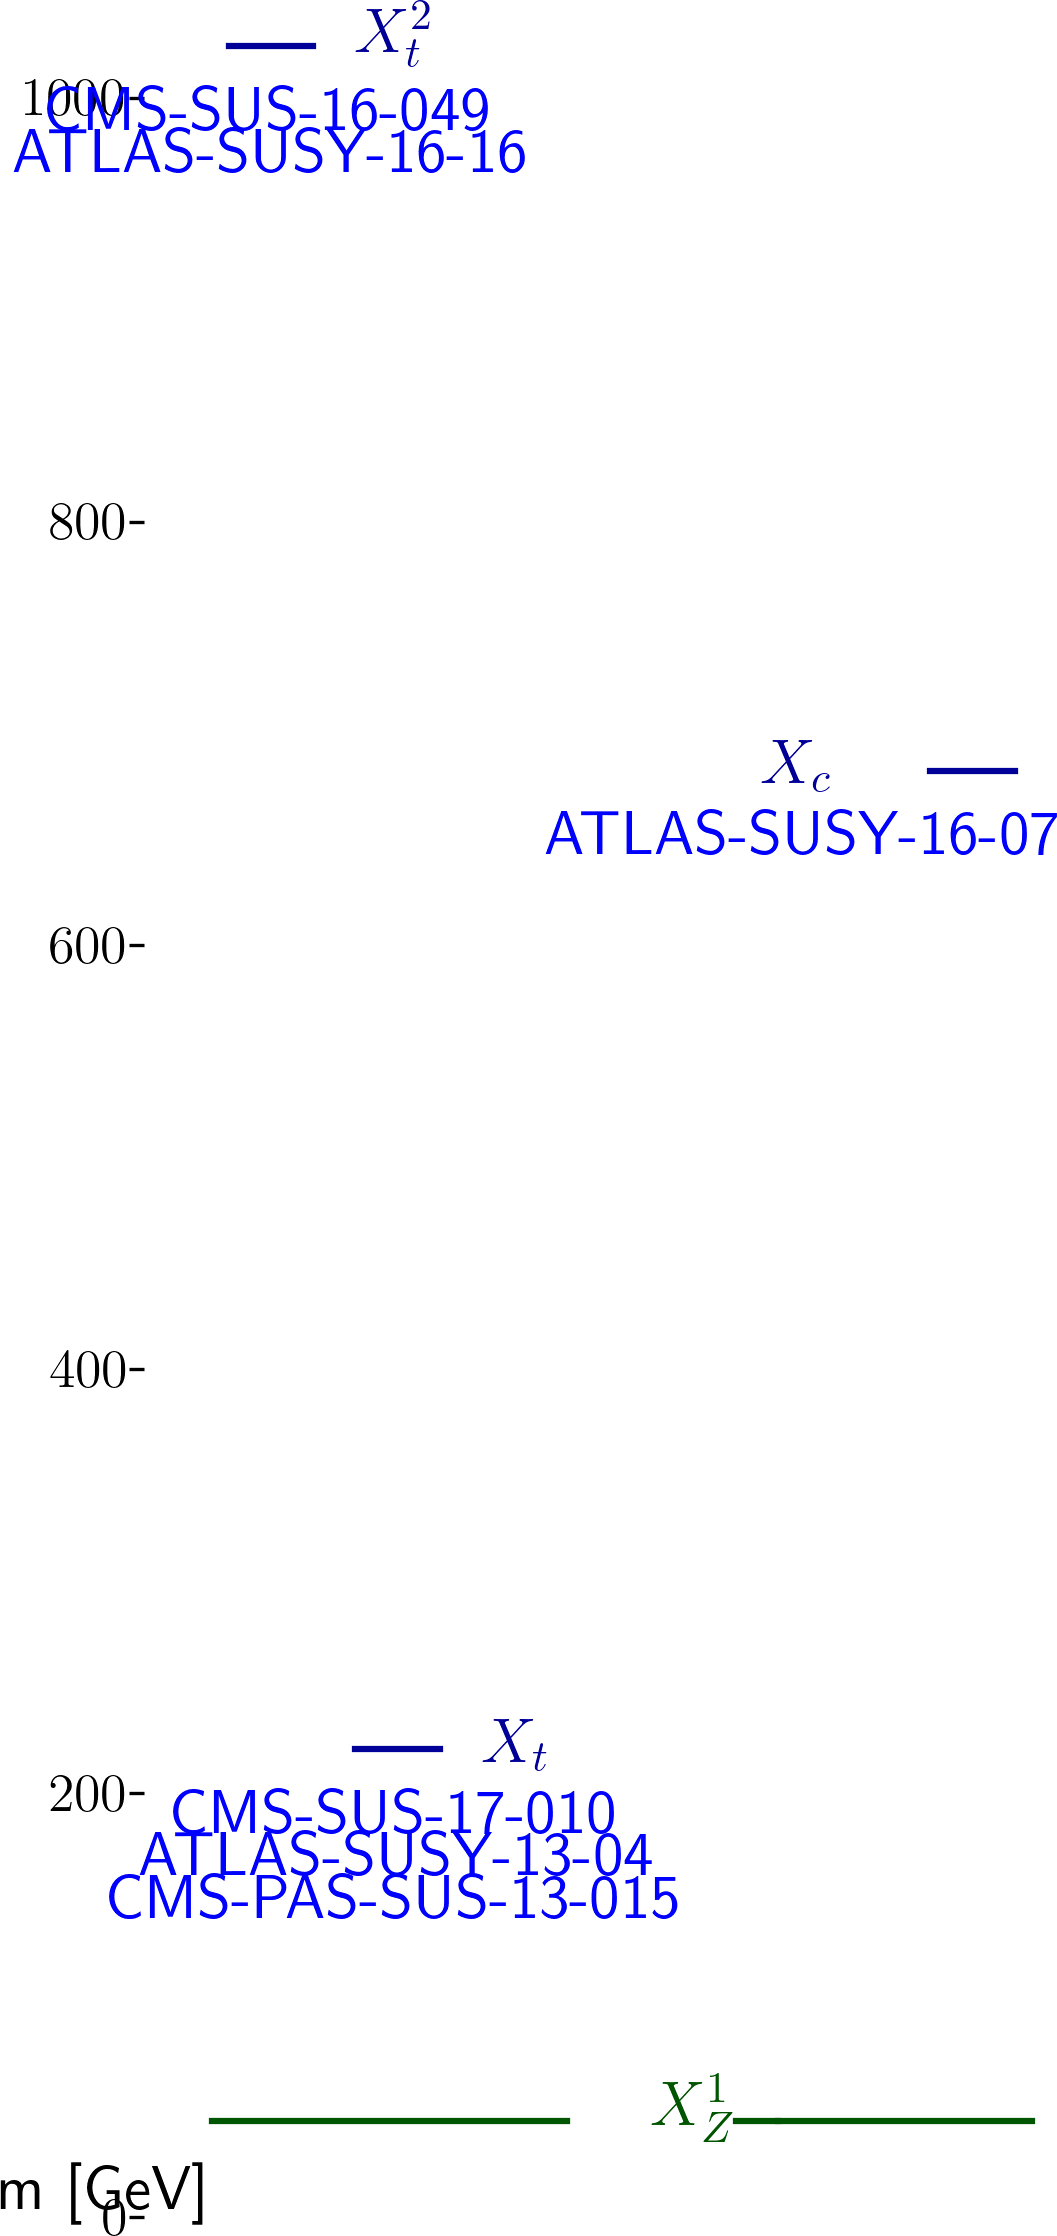
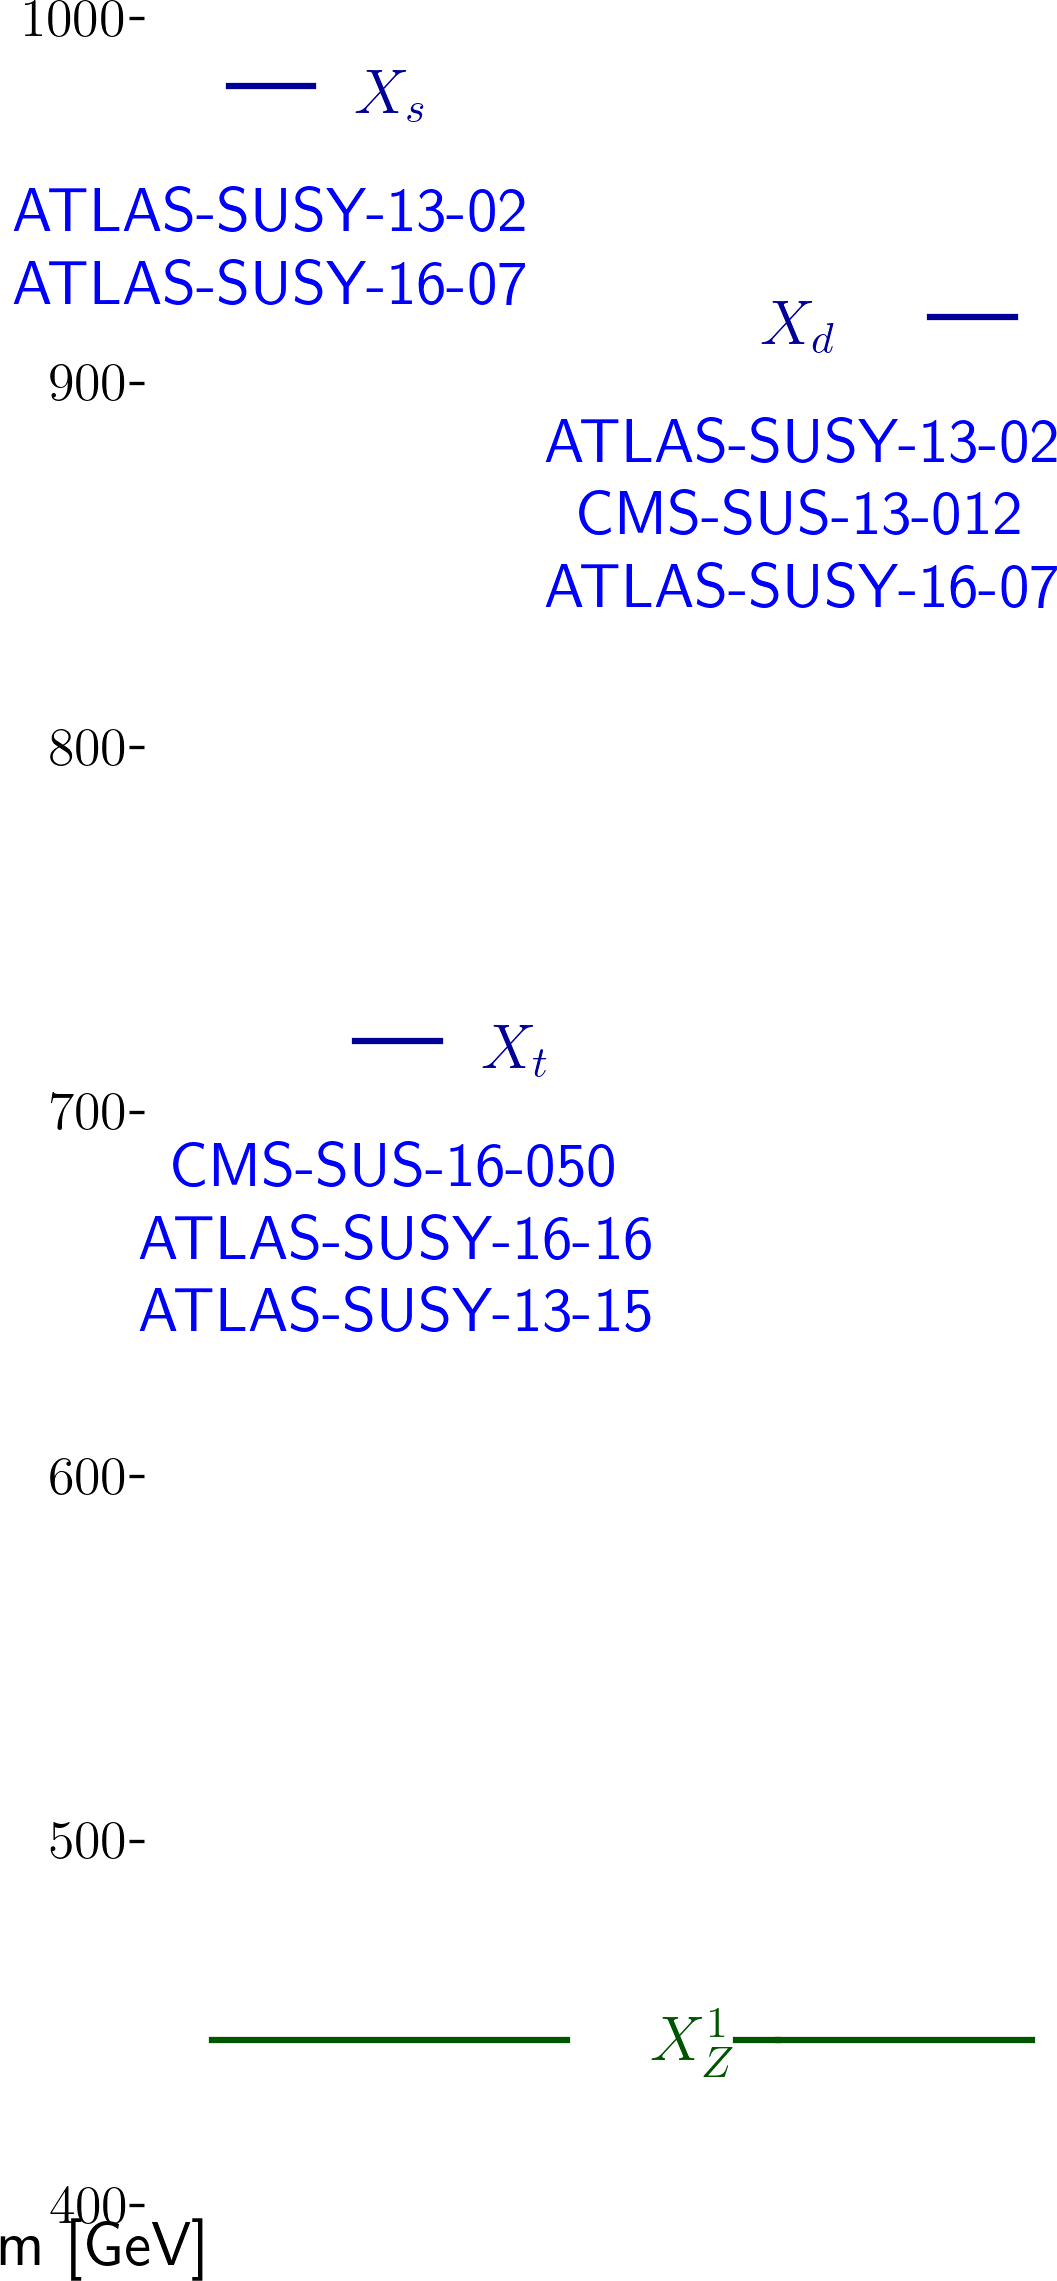
automated update by plotHiscore.py

diff --git a/protomodels/latest/index.html b/protomodels/latest/index.html
@@ -1,31 +1,31 @@
 <html>
 <body>
 <center>
-<table><td><h1>Current best protomodel: K=10.47</h1><td><img height=60px src=https://smodels.github.io/pics/banner.png></table>
+<table><td><h1>Current best protomodel: K=6.67</h1><td><img height=60px src=https://smodels.github.io/pics/banner.png></table>
 </center>
-<b><a href=./hiscore.slha>ProtoModel</a> <a href=./pmodel.py>(dict)</a> produced with <a href=https://smodels.github.io/docs/Validation124>database v1.2.4</a>, combination strategy <a href=./matrix_aggressive.png>aggressive</a> in walker 14 step 282.</b> K plots for: <a href=./M1000022.png?8455780>X<sub>Z</sub><sup>1</sup></a>, <a href=./M2000006.png?8455780>X<sub>t</sub><sup>2</sup></a>, <a href=./M1000004.png?8455780>X<sub>c</sub></a>, <a href=./M1000006.png?8455780>X<sub>t</sub></a>. HPD plots for: <a href=./llhd2000006.png?8455780>X<sub>t</sub><sup>2</sup></a>, <a href=./llhd1000004.png?8455780>X<sub>c</sub></a>, <a href=./llhd1000006.png?8455780>X<sub>t</sub></a>. SSM plots for: <a href=./ssm_-2000006_2000006.png?8455780>(x&#772;<sub>t</sub><sup>2</sup>,X<sub>t</sub><sup>2</sup>)</a>, <a href=./ssm_-1000006_1000006.png?8455780>(x&#772;<sub>t</sub>,X<sub>t</sub>)</a><br>
+<b><a href=./hiscore.slha>ProtoModel</a> <a href=./pmodel.py>(dict)</a> produced with <a href=https://smodels.github.io/docs/Validation124>database v1.2.4</a>, combination strategy <a href=./matrix_aggressive.png>aggressive</a> in walker 1 step 904.</b> K plots for: <a href=./M1000022.png?8455806>X<sub>Z</sub><sup>1</sup></a>, <a href=./M1000003.png?8455806>X<sub>s</sub></a>, <a href=./M1000001.png?8455806>X<sub>d</sub></a>, <a href=./M1000006.png?8455806>X<sub>t</sub></a>. HPD plots for: <a href=./llhd1000003.png?8455806>X<sub>s</sub></a>, <a href=./llhd1000001.png?8455806>X<sub>d</sub></a>, <a href=./llhd1000006.png?8455806>X<sub>t</sub></a>. SSM plots for: <a href=./ssm_-1000006_1000006.png?8455806>(x&#772;<sub>t</sub>,X<sub>t</sub>)</a><br>
 <table width=80%>
 <tr><td>
-<br><b>38 predictions available. Highest r values are:</b><br><ul>
-<li><a href=http://cms-results.web.cern.ch/cms-results/public-results/publications/SUS-19-006/index.html>CMS-SUS-19-006</a>:T2 r=1.30, r<sub>exp</sub>=1.08<br>
-<li><a href=http://cms-results.web.cern.ch/cms-results/public-results/publications/SUS-16-033/index.html>CMS-SUS-16-033</a>:T2 r=1.28, r<sub>exp</sub>=0.83<br>
-<li><a href=https://twiki.cern.ch/twiki/bin/view/CMSPublic/PhysicsResultsSUS13004>CMS-SUS-13-004</a>:T2tt r=1.12, r<sub>exp</sub>=N/A<br>
-<li><a href=http://cms-results.web.cern.ch/cms-results/public-results/publications/SUS-19-006/index.html>CMS-SUS-19-006</a>:T2tt r=1.10, r<sub>exp</sub>=0.97<br>
-<li><a href=http://cms-results.web.cern.ch/cms-results/public-results/publications/SUS-16-036/index.html>CMS-SUS-16-036</a>:T2 r=0.93, r<sub>exp</sub>=0.74<br>
+<br><b>40 predictions available. Highest r values are:</b><br><ul>
+<li><a href=http://cms-results.web.cern.ch/cms-results/public-results/publications/SUS-19-006/index.html>CMS-SUS-19-006</a>:T2tt r=1.30, r<sub>exp</sub>=0.82<br>
+<li><a href=http://cms-results.web.cern.ch/cms-results/public-results/publications/SUS-16-049/index.html>CMS-SUS-16-049</a>:T2tt r=0.74, r<sub>exp</sub>=0.66<br>
+<li><a href=http://cms-results.web.cern.ch/cms-results/public-results/publications/SUS-19-006/index.html>CMS-SUS-19-006</a>:T2 r=0.71, r<sub>exp</sub>=0.63<br>
+<li><a href=http://cms-results.web.cern.ch/cms-results/public-results/publications/SUS-16-036/index.html>CMS-SUS-16-036</a>:T2tt r=0.69, r<sub>exp</sub>=0.50<br>
+<li><a href=http://cms-results.web.cern.ch/cms-results/public-results/publications/SUS-19-006/index.html>CMS-SUS-19-006</a>:T2 r=0.68, r<sub>exp</sub>=0.60<br>
 </ul>
 <td><br><b>K values without analyses: (contribution)</b><br>
 <ul>
-<li> <a href=http://cms-results.web.cern.ch/cms-results/public-results/publications/SUS-17-010>CMS-SUS-17-010</a>: 2.67 (14%)
-<li> <a href=http://cms-results.web.cern.ch/cms-results/public-results/publications/SUS-16-049/index.html>CMS-SUS-16-049</a>: 2.67 (14%)
-<li> <a href=https://twiki.cern.ch/twiki/bin/view/CMSPublic/PhysicsResultsSUS13015>CMS-PAS-SUS-13-015</a>: 2.32 (15%)
-<li> <a href=https://atlas.web.cern.ch/Atlas/GROUPS/PHYSICS/PAPERS/SUSY-2013-04/>ATLAS-SUSY-2013-04</a>: 2.24 (15%)
-<li> <a href=https://atlas.web.cern.ch/Atlas/GROUPS/PHYSICS/PAPERS/SUSY-2016-16/>ATLAS-SUSY-2016-16</a>: -0.01 (19%)
-<li> <a href=https://atlas.web.cern.ch/Atlas/GROUPS/PHYSICS/PAPERS/SUSY-2016-07/>ATLAS-SUSY-2016-07</a>: -1.24 (22%)
-<td><img width=600px src=./texdoc.png?1601455780>
-<br><font size=-1>Last updated: Wed Sep 30 10:49:40 2020</font>
+<li> <a href=https://twiki.cern.ch/twiki/bin/view/CMSPublic/PhysicsResultsSUS13012>CMS-SUS-13-012</a>: 2.33 (13%)
+<li> <a href=http://cms-results.web.cern.ch/cms-results/public-results/publications/SUS-16-050/index.html>CMS-SUS-16-050</a>: 2.33 (13%)
+<li> <a href=https://atlas.web.cern.ch/Atlas/GROUPS/PHYSICS/PAPERS/SUSY-2013-02/>ATLAS-SUSY-2013-02</a>: 2.27 (13%)
+<li> <a href=https://atlas.web.cern.ch/Atlas/GROUPS/PHYSICS/PAPERS/SUSY-2013-15/>ATLAS-SUSY-2013-15</a>: 1.98 (14%)
+<li> <a href=https://atlas.web.cern.ch/Atlas/GROUPS/PHYSICS/PAPERS/SUSY-2016-16/>ATLAS-SUSY-2016-16</a>: 0.45 (19%)
+<li> <a href=https://atlas.web.cern.ch/Atlas/GROUPS/PHYSICS/PAPERS/SUSY-2016-07/>ATLAS-SUSY-2016-07</a>: -2.21 (27%)
+<td><img width=600px src=./texdoc.png?1601455806>
+<br><font size=-1>Last updated: Wed Sep 30 10:50:06 2020</font>
 </table><table style="width:80%">
-<td width=45%><img height=580px src=./ruler.png?1601455780><td width=55%><img height=380px src=./decays.png?1601455780>
-<font size=-3><iframe type="text/html" height="220px" width="100%s" frameborder="0" src="./rawnumbers.html?1601455780"></iframe></font>
+<td width=45%><img height=580px src=./ruler.png?1601455806><td width=55%><img height=380px src=./decays.png?1601455806>
+<font size=-3><iframe type="text/html" height="220px" width="100%s" frameborder="0" src="./rawnumbers.html?1601455806"></iframe></font>
 </table>
 </body>
 </html>

diff --git a/protomodels/latest/rawnumbers.html b/protomodels/latest/rawnumbers.html
@@ -1,10 +1,10 @@
 <table>
 <tr><th>Analysis Name</th><th>Type</th><th>Dataset</th><th>Topos</th><th>Observed</th><th>Expected</th><th>Approx &sigma;</th><th>Particles</th>
 </tr>
-<tr><td><a href=https://atlas.web.cern.ch/Atlas/GROUPS/PHYSICS/PAPERS/SUSY-2013-04/>ATLAS-SUSY-2013-04</a></td><td>em</td> <td>GtGrid_SR_10ij5 ...</td><td>T2tt</td><td>3</td><td>1.37 +/- 0.35</td><td style="text-align:right">1.3 &sigma;</td><td style="text-align:right">X<sub>t</sub></td></tr>
-<tr><td><a href=https://atlas.web.cern.ch/Atlas/GROUPS/PHYSICS/PAPERS/SUSY-2016-07/>ATLAS-SUSY-2016-07</a></td><td>em</td> <td>2j_Meff_1200</td><td>T2</td><td>611</td><td>526 +/- 31</td><td style="text-align:right">2.2 &sigma;</td><td style="text-align:right">X<sub>c</sub></td></tr>
-<tr><td><a href=https://atlas.web.cern.ch/Atlas/GROUPS/PHYSICS/PAPERS/SUSY-2016-16/>ATLAS-SUSY-2016-16</a></td><td>em</td> <td>tN_high</td><td>T2tt</td><td>8</td><td>3.8 +/- 1</td><td style="text-align:right">1.9 &sigma;</td><td style="text-align:right">X<sub>t</sub><sup>2</sup></td></tr>
-<tr><td><a href=https://twiki.cern.ch/twiki/bin/view/CMSPublic/PhysicsResultsSUS13015>CMS-PAS-SUS-13-015</a></td><td>em</td> <td>pTmiss350_Nb2</td><td>T2tt</td><td>15</td><td>8.6 +/- 7.1</td><td style="text-align:right">0.8 &sigma;</td><td style="text-align:right">X<sub>t</sub></td></tr>
-<tr><td><a href=http://cms-results.web.cern.ch/cms-results/public-results/publications/SUS-16-049/index.html>CMS-SUS-16-049</a></td><td>ul</td> <td>-</td><td>T2tt</td><td> 4.9 fb </td><td> 3.2 fb</td><td style="text-align:right">1.1 &sigma;</td><td style="text-align:right">X<sub>t</sub><sup>2</sup></td></tr>
-<tr><td><a href=http://cms-results.web.cern.ch/cms-results/public-results/publications/SUS-17-010>CMS-SUS-17-010</a></td><td>ul</td> <td>-</td><td>T2tt</td><td> 71572.0 fb </td><td> 33152.4 fb</td><td style="text-align:right">2.3 &sigma;</td><td style="text-align:right">X<sub>t</sub></td></tr>
+<tr><td><a href=https://atlas.web.cern.ch/Atlas/GROUPS/PHYSICS/PAPERS/SUSY-2013-02/>ATLAS-SUSY-2013-02</a></td><td>em</td> <td>SR6jtp</td><td>T2</td><td>6</td><td>4.9 +/- 1.6</td><td style="text-align:right">0.4 &sigma;</td><td style="text-align:right">X<sub>d</sub>, X<sub>s</sub></td></tr>
+<tr><td><a href=https://atlas.web.cern.ch/Atlas/GROUPS/PHYSICS/PAPERS/SUSY-2013-15/>ATLAS-SUSY-2013-15</a></td><td>em</td> <td>tNboost</td><td>T2tt</td><td>5</td><td>3.3 +/- 0.7</td><td style="text-align:right">0.9 &sigma;</td><td style="text-align:right">X<sub>t</sub></td></tr>
+<tr><td><a href=https://atlas.web.cern.ch/Atlas/GROUPS/PHYSICS/PAPERS/SUSY-2016-07/>ATLAS-SUSY-2016-07</a></td><td>em</td> <td>2j_Meff_1200</td><td>T2</td><td>611</td><td>526 +/- 31</td><td style="text-align:right">2.2 &sigma;</td><td style="text-align:right">X<sub>d</sub>, X<sub>s</sub></td></tr>
+<tr><td><a href=https://atlas.web.cern.ch/Atlas/GROUPS/PHYSICS/PAPERS/SUSY-2016-16/>ATLAS-SUSY-2016-16</a></td><td>em</td> <td>tN_med</td><td>T2tt</td><td>50</td><td>36.3 +/- 6.6</td><td style="text-align:right">1.5 &sigma;</td><td style="text-align:right">X<sub>t</sub></td></tr>
+<tr><td><a href=https://twiki.cern.ch/twiki/bin/view/CMSPublic/PhysicsResultsSUS13012>CMS-SUS-13-012</a></td><td>ul</td> <td>-</td><td>T2</td><td> 31.4 fb </td><td> 19.4 fb</td><td style="text-align:right">1.2 &sigma;</td><td style="text-align:right">X<sub>d</sub></td></tr>
+<tr><td><a href=http://cms-results.web.cern.ch/cms-results/public-results/publications/SUS-16-050/index.html>CMS-SUS-16-050</a></td><td>ul</td> <td>-</td><td>T2tt</td><td> 198.4 fb </td><td> 85.7 fb</td><td style="text-align:right">2.6 &sigma;</td><td style="text-align:right">X<sub>t</sub></td></tr>
 </table>

diff --git a/protomodels/latest/pmodel.py b/protomodels/latest/pmodel.py
@@ -1,1 +1,1 @@
-{'masses': {1000022: 35.301, 1000004: 672.489, 1000006: 210.654, 2000006: 1014.438}, 'ssmultipliers': {(1000022, 1000022): 0.0, (1000004, 1000004): 0.288, (-1000004, 1000004): 0.288, (-1000004, -1000004): 0.288, (1000004, 1000022): 0.288, (-1000004, 1000022): 0.288, (1000006, 1000006): 0.782, (-1000006, 1000006): 0.782, (-1000006, -1000006): 0.782, (1000006, 1000022): 0.782, (-1000006, 1000022): 0.782, (1000004, 1000006): 0.811, (-1000006, 1000004): 0.811, (-1000004, 1000006): 0.811, (-1000006, -1000004): 0.811, (2000006, 2000006): 1.0, (-2000006, 2000006): 1.0, (-2000006, -2000006): 1.0, (1000022, 2000006): 1.0, (-2000006, 1000022): 1.0, (1000004, 2000006): 1.0, (-2000006, 1000004): 1.0, (-1000004, 2000006): 1.0, (-2000006, -1000004): 1.0, (1000006, 2000006): 1.0, (-2000006, 1000006): 1.0, (-1000006, 2000006): 1.0, (-2000006, -1000006): 1.0}, 'decays': {1000022: {}, 1000004: {(1000022, 4): 1.0}, 1000006: {(1000022, 6): 1.0}, 2000006: {(1000022, 6): 0.413, (1000006, 23): 0.587}}, 'timestamp': 'Wed Sep 30 10:48:25 2020', 'Z': 3.965, 'K': 10.468, 'step': 282, 'codever': '1.0', 'dbver': '1.2.4'}
+{'masses': {1000022: 435.201, 1000006: 709.415, 1000001: 908.055, 1000003: 971.383}, 'ssmultipliers': {(1000022, 1000022): 1.821, (1000006, 1000006): 0.716, (-1000006, 1000006): 0.716, (-1000006, -1000006): 1.141, (1000006, 1000022): 0.716, (-1000006, 1000022): 0.716, (1000001, 1000001): 1.009, (-1000001, 1000001): 1.008, (-1000001, -1000001): 1.009, (1000001, 1000022): 1.009, (-1000001, 1000022): 1.009, (1000001, 1000006): 1.009, (-1000001, 1000006): 1.009, (-1000006, 1000001): 1.009, (-1000006, -1000001): 1.009, (1000003, 1000003): 1.005, (-1000003, 1000003): 1.005, (-1000003, -1000003): 1.005, (1000003, 1000022): 1.005, (-1000003, 1000022): 1.005, (1000003, 1000006): 1.005, (-1000003, 1000006): 1.005, (-1000006, 1000003): 1.005, (-1000006, -1000003): 1.005, (1000001, 1000003): 1.005, (-1000003, 1000001): 1.005, (-1000001, 1000003): 1.005, (-1000003, -1000001): 1.005}, 'decays': {1000022: {}, 1000006: {(1000022, 6): 1.0}, 1000001: {(1000022, 1): 1.0}, 1000003: {(1000022, 3): 1.0}}, 'timestamp': 'Wed Sep 30 10:48:52 2020', 'Z': 3.368, 'K': 6.666, 'step': 904, 'codever': '1.0', 'dbver': '1.2.4'}
